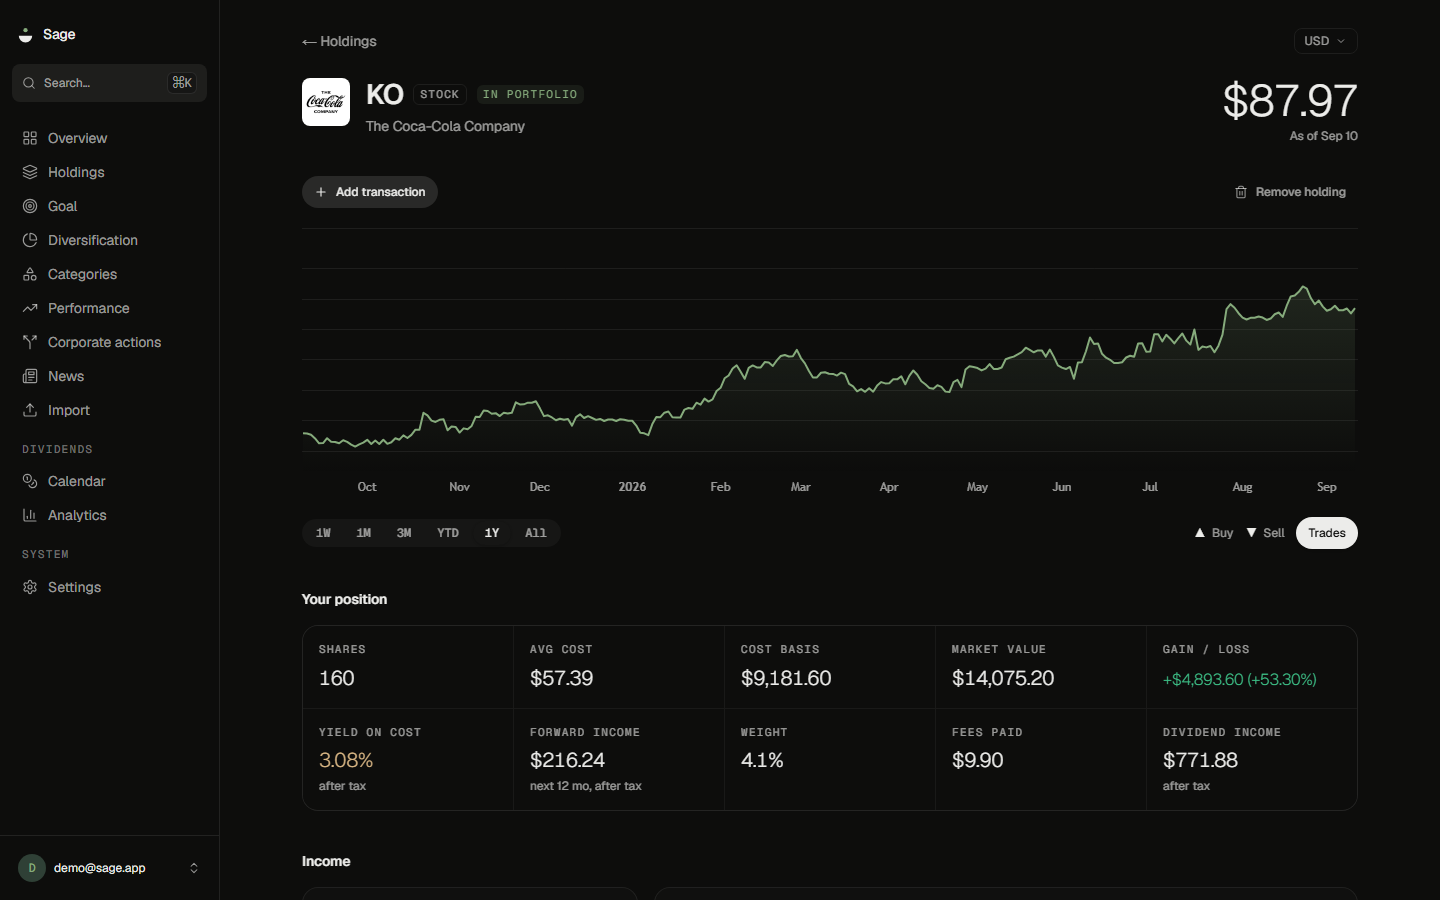
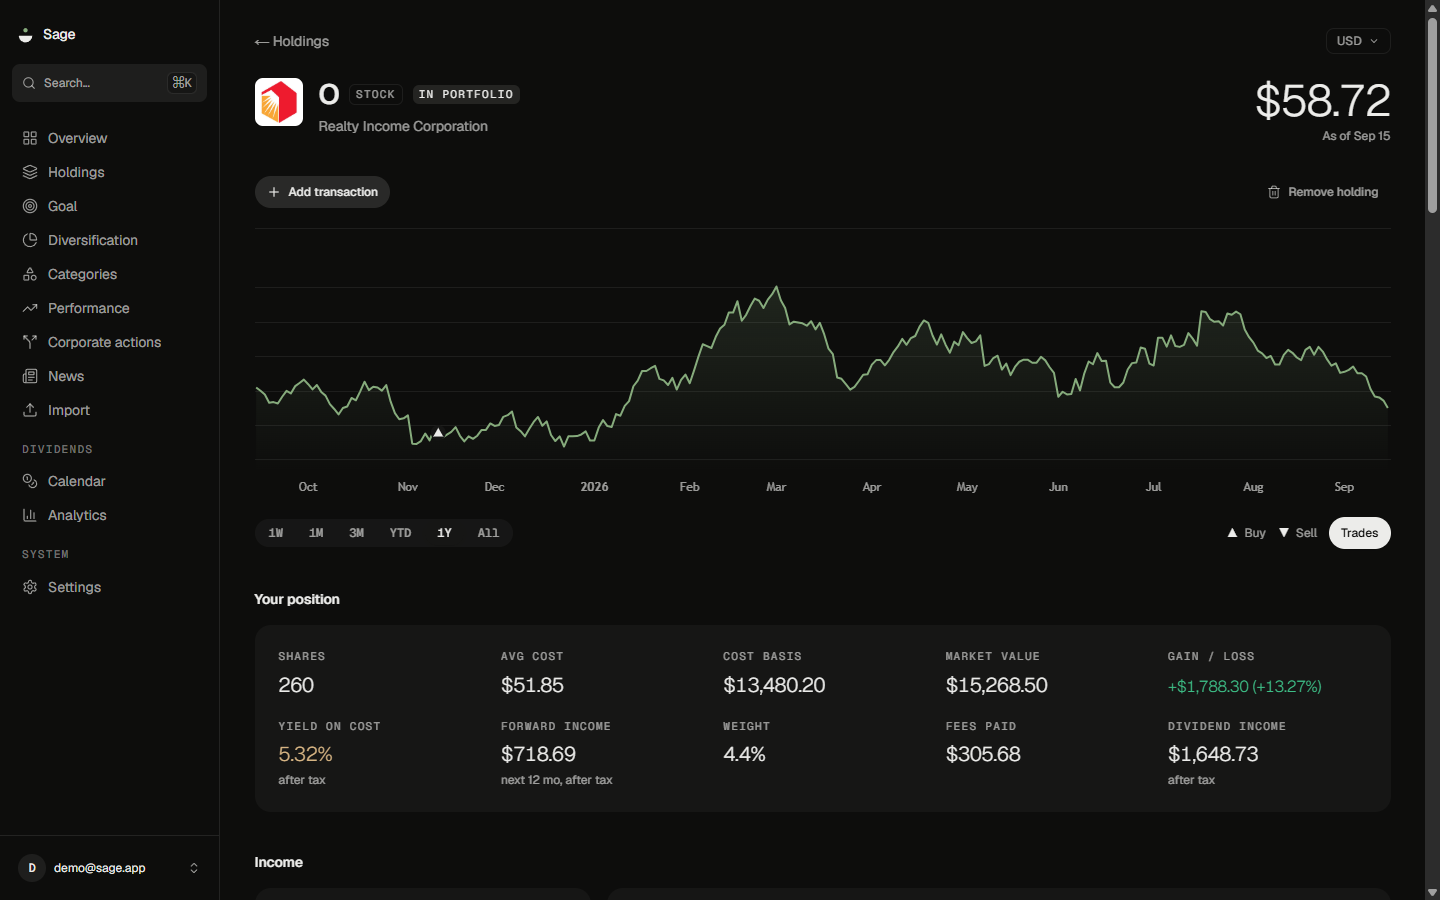
re-shoot the nine README screenshots, and stop promising a card that was removed
All nine shots showed a UI that no longer exists. The card-border removal and
the 1120 -> 1200 column change every page, and the overview is unrecognisable —
it led with a 108px balance and now leads with forward income over the payment
stream. A public README whose screenshots show a product you cannot find is
worse than one with no screenshots.

Re-shot from the demo book at the same sizes as the set they replace (1440x900,
375x812 for the phone), dark theme to match, with the dev overlays suppressed —
including the TanStack Query button, which is NOT inside `nextjs-portal` and
has slipped into a shoot before. Verified per page before each capture: no
skeletons, no horizontal overflow, no price-staleness banner, and on
/diversification no clipped labels. The legend fix is visible in the new shot:
"Schwab U.S. Dividend Equity ETF" and "Consumer Defensive" render in full where
they were "Schw…" and "Cons…".

The maintainer's own book never touches these. `apps/api/.env` was backed up,
pointed at sage-demo-db on 5433 for the duration, and restored byte-identical
afterwards.

Two stale claims in the prose, both found while checking the shots matched the
words:

- The Performance section promised "a money-weighted XIRR beside it". The MWR
  card went in 7f086e1 and nothing in apps/web renders one — `xirr()` survives
  in core, unused by the UI. Replaced with what the page does show, including
  that the benchmarks are total-return series rather than price indices, which
[…]

diff --git a/README.md b/README.md
@@ -23,14 +23,21 @@ arithmetic is tested, not that nothing will change: read
 the default price source is an unofficial one that can break without warning.
 
 <p align="center">
-  <img alt="The Sage overview page: portfolio value, allocation and upcoming dividends" src="docs/assets/shot-overview.png" width="880">
+  <img alt="The Sage overview page: forward twelve-month income over a stream of every dividend paid and expected, shaded by how certain each one is" src="docs/assets/shot-overview.png" width="880">
 </p>
 
 ## What you get
 
 ### Dividends
 
-Sage starts with dividends. The calendar shows one year at a time, with
+Sage starts with dividends, and so does its front page. A dividend account
+isn't run for its net worth, so the overview leads with what the book pays over
+the next twelve months, over a stream of every payment it has made and expects
+— solid where the money has landed, lighter where the payment is merely
+declared, lighter still where Sage is forecasting it. Your balance is on that
+page too, as a supporting figure, which is the job it actually does here.
+
+The calendar shows one year at a time, with
 payments you've already received and predicted ones in the same grid. The year
 picker, the bars and the list all follow a single selection, so the three
 layers can't disagree about which year is on screen. A total that would span
@@ -53,11 +60,12 @@ shouldn't disappear just because you exited.
 ### Performance
 
 Time-weighted return, chained daily over the range you pick, and annualized
-once that range is longer than a year. Beside it a money-weighted XIRR, so a
-deposit made in the middle of a good month doesn't read as skill. Then
-volatility, maximum drawdown, best and worst day, and a benchmark line to
-measure against. Prices are read from your own Postgres, so the chart is
-exactly as long as the history you have stored.
+once that range is longer than a year — so a deposit made in the middle of a
+good month doesn't read as skill. Then volatility, maximum drawdown, best and
+worst day, and a benchmark line to measure against. Benchmarks are total-return
+series, not price indices, so the comparison isn't quietly flattered by the
+dividends the index paid. Prices are read from your own Postgres, so the chart
+is exactly as long as the history you have stored.
 
 <p align="center">
   <img alt="The performance page: return over time against a benchmark, with risk metrics" src="docs/assets/shot-performance.png" width="880">
@@ -136,7 +144,7 @@ offline cache, because stale figures are worse than none in an app whose whole
 value is that its numbers are current.
 
 <p align="center">
-  <img alt="The Sage overview page on a phone" src="docs/assets/shot-overview-mobile.png" width="240">
+  <img alt="The Sage overview page on a phone: the income figure and payment stream, with a bottom tab bar" src="docs/assets/shot-overview-mobile.png" width="240">
 </p>
 
 ## Quick start
